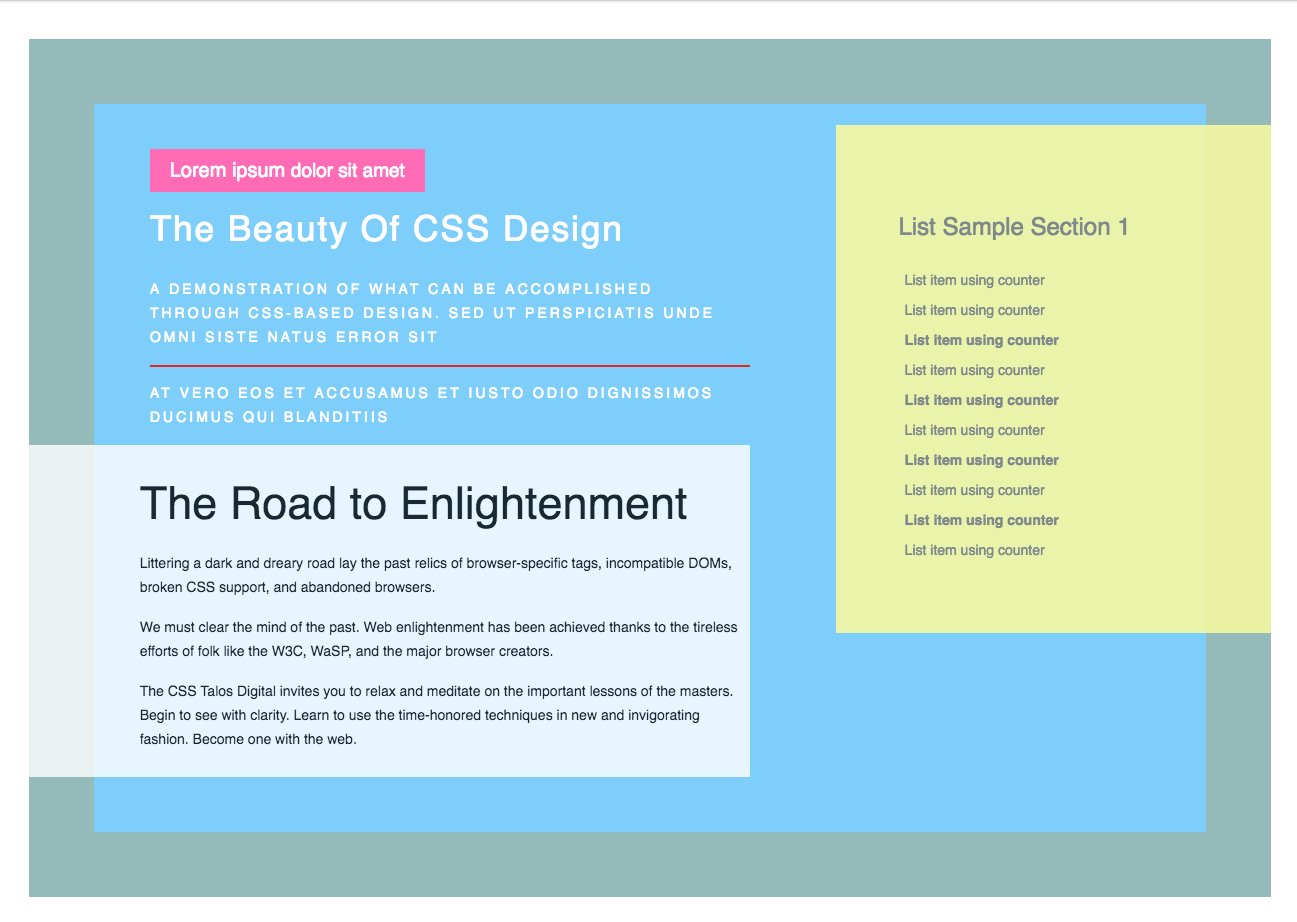
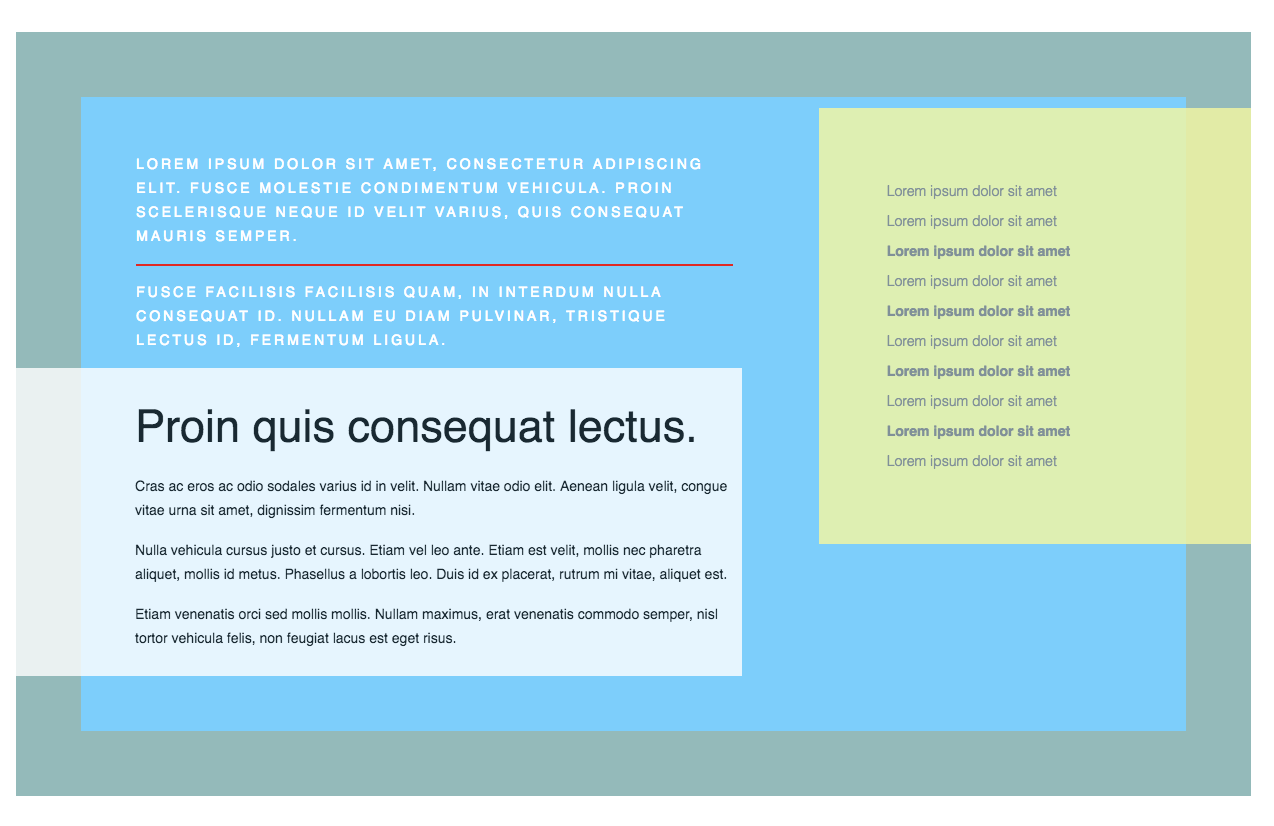
007 Changes

Changed region(s): [[0.0, 0.0303, 1.0, 0.9988], [0.6735, 0.2119, 0.8571, 0.6053]]

diff --git a/src/007-z-index/solved/index.html b/src/007-z-index/solved/index.html
@@ -38,39 +38,30 @@
 
     <section class="container">
       <section class="wrapper">
-        <header class="project-header"> Lorem ipsum <span> dolor sit amet </span> </header>
-        <article class="beauty">
-            <h1 class="title"> the beauty of <span>css</span> design</h1>
-            <p>a demonstration of what can be accomplished through css-based design. sed ut perspiciatis unde omni
-                siste natus error sit   </p>
+        <article class="blue-box">
+            <p>Lorem ipsum dolor sit amet, consectetur adipiscing elit. Fusce molestie condimentum vehicula. Proin scelerisque neque id velit varius, quis consequat mauris semper.</p>
             <hr>
-            <p>  at vero eos et accusamus et iusto odio dignissimos ducimus qui blanditiis </p>
+            <p> Fusce facilisis facilisis quam, in interdum nulla consequat id. Nullam eu diam pulvinar, tristique lectus id, fermentum ligula. </p>
         </article>
         <div class="yellow-box">
-            <h4> List Sample Section 1 </h4>
             <ul>
-                <li>List item using counter</li>
-                <li>List item using counter</li>
-                <li class="bold">List item using counter</li>
-                <li>List item using counter</li>
-                <li class="bold">List item using counter</li>
-                <li>List item using counter</li>
-                <li class="bold">List item using counter</li>
-                <li>List item using counter</li>
-                <li class="bold">List item using counter</li>
-                <li>List item using counter</li>
+                <li>Lorem ipsum dolor sit amet</li>
+                <li>Lorem ipsum dolor sit amet</li>
+                <li class="bold">Lorem ipsum dolor sit amet</li>
+                <li>Lorem ipsum dolor sit amet</li>
+                <li class="bold">Lorem ipsum dolor sit amet</li>
+                <li>Lorem ipsum dolor sit amet</li>
+                <li class="bold">Lorem ipsum dolor sit amet</li>
+                <li>Lorem ipsum dolor sit amet</li>
+                <li class="bold">Lorem ipsum dolor sit amet</li>
+                <li>Lorem ipsum dolor sit amet</li>
             </ul>
         </div>
         <article class="white-box">
-            <h2>The Road to Enlightenment</h2>
-            <p> Littering a dark and dreary road lay the past relics of browser-specific tags, incompatible DOMs,
-                broken CSS support, and abandoned browsers. </p>
-            <p> We must clear the mind of the past. Web enlightenment has been achieved thanks to the tireless
-                efforts of folk like the W3C, WaSP, and the major browser creators. </p>
-            <p> The CSS Talos Digital invites you to relax and meditate on the important lessons of the masters.
-                Begin to see with clarity. Learn to use the time-honored techniques in new and invigorating fashion.
-                Become one with the web.
-            </p>
+            <h2>Proin quis consequat lectus.</h2>
+            <p>  Cras ac eros ac odio sodales varius id in velit. Nullam vitae odio elit. Aenean ligula velit, congue vitae urna sit amet, dignissim fermentum nisi.</p>
+            <p> Nulla vehicula cursus justo et cursus. Etiam vel leo ante. Etiam est velit, mollis nec pharetra aliquet, mollis id metus. Phasellus a lobortis leo. Duis id ex placerat, rutrum mi vitae, aliquet est. </p>
+            <p> Etiam venenatis orci sed mollis mollis. Nullam maximus, erat venenatis commodo semper, nisl tortor vehicula felis, non feugiat lacus est eget risus.</p>
         </article>
       </section>
     </section>

diff --git a/src/007-z-index/solved/example.css b/src/007-z-index/solved/example.css
@@ -1,15 +1,10 @@
 /* Practice Layout */
 html, body, div{
-    border:0;
-    outline:0;
-    vertical-align:baseline;
-    background:transparent;
-    counter-reset: section;
     margin: 0;
     padding: 0;
 }
 
-article, aside, footer, header, nav, section {
+article, nav, section {
     display:block;
 }
 
@@ -17,26 +12,13 @@ nav ul {
     list-style:none;
 }
 
-a {
-    margin:0;
-    padding:0;
-    font-size:100%;
-    vertical-align:baseline;
-    background:transparent;
-}
-
-/* change border colour to suit your needs */
 hr {
     display:block;
     height:1px;
     border:0;
     border-top:1px solid #cccccc;
-    margin:1em 0;
+    margin: 1em 0;
     padding:0;
-}
-
-input, select {
-    vertical-align:middle;
 }
 
 h1{
@@ -44,15 +26,9 @@ h1{
     font-size: 2.5em;
 }
 
-h1, h2, h3, h4, h5, h6, p, span, header{
+h1, h2, h3, h4, h5, h6, p, span, header, a{
     font-family: sans-serif;
     letter-spacing: normal;
-}
-
-body {
-    counter-reset: section;
-    margin: 0;
-    padding: 0;
 }
 
 .trash{
@@ -67,35 +43,16 @@ body {
 }
 
 .wrapper{
-    margin: 0;
     background-color: lightskyblue;
     padding: 5%;
 }
-.project-header{
-    display: inline;
-    color: #fff;
-    font-size: 25px;
-    background-color: hotpink;
-    padding: 10px 20px;
-}
-.project-header span{
-    font-size: 19px;
-}
 
-.beauty{
+.blue-box{
     color: #fff;
     width: 60%;
 }
 
-.beauty .title{
-    text-transform: capitalize;
-}
-
-.beauty .title span{
-    text-transform: uppercase;
-}
-
-.beauty p{
+.blue-box p{
     text-transform: uppercase;
     letter-spacing: 3px;
 }
@@ -142,6 +99,6 @@ hr{
     font-weight: lighter;
 }
 
-.yellow-box ul li.bold{
+.bold{
     font-weight: bold !important;
 }

diff --git a/src/index.html b/src/index.html
@@ -179,7 +179,7 @@
           <!-- Card Block -->
           <div class="demo-card-wide mdl-card mdl-shadow--2dp">
             <div class="mdl-card__title">
-              <h2 class="mdl-card__title-text">007 - Z Index</h2>
+              <h2 class="mdl-card__title-text">007 - Z Index, !important and Inheritance</h2>
             </div>
             <div class="mdl-card__supporting-text">
               Without any z-index value, elements stack in the order that they appear in the DOM (the lowest one down at the same hierarchy level appears on top). 

diff --git a/src/007-z-index/README.md b/src/007-z-index/README.md
@@ -7,7 +7,8 @@ You should read about Z Index Documentation here [CSS Tricks][1], about !importa
 
 Using Z Index, !important and Inheritance CSS Property, create the next items:
 
-1. Create a container with background color #96baba.
+0. Use all the text sans-serif and letter-spacing normal, the articles, nav, section display block.
+1. Create a container with background color #96baba. 
 2. Create a new container overlapping the first one background color lightskyblue.
 3. In this container create a header with a sub title and an article and 2 text divide by a line.
 4. Create 2 new containers overlapping the second one with 0.8 opacity.
